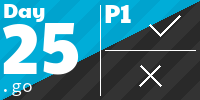
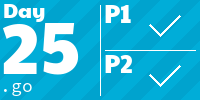
2024 Day 21 Part 2

diff --git a/2024/day21/main.go b/2024/day21/main.go
@@ -13,9 +13,8 @@ var dirs = []string{" ^A", "<v>"}
 var numpad = make(map[string]utils.Pair)
 var dirpad = make(map[string]utils.Pair)
 
-func complexity(code string, sequence string) int {
-	fmt.Println(code, len(sequence), utils.MustParseInt(code[:len(code)-1]), sequence)
-	return len(sequence) * utils.MustParseInt(code[:len(code)-1])
+func complexity(code string, length int) int {
+	return length * utils.MustParseInt(code[:len(code)-1])
 }
 
 type unit struct {
@@ -91,48 +90,53 @@ func getPermutations(delta utils.Pair) []string {
 	}
 }
 
-func getShortest(strs []string) string {
-	shortest := strs[0]
-	for _, s := range strs {
-		if len(s) < len(shortest) {
-			shortest = s
-		}
-	}
-	return shortest
+type key struct {
+	padlen int
+	start  string
+	end    string
+	n      int
 }
 
-func decompileSegment(pad map[string]utils.Pair, start, end string, n int) string {
+var cache = make(map[key]int)
+
+func decompileSegment(pad map[string]utils.Pair, start, end string, n int) int {
+	k := key{len(pad), start, end, n}
+	if value, exists := cache[k]; exists {
+		return value
+	}
+
 	delta := pad[end].Minus(pad[start])
 	perms := getPermutations(delta)
 
-	candidates := []string{}
+	result := -1
 	for _, perm := range perms {
 		if isIllegal(start, pad, perm) {
 			continue
 		}
+		length := 0
 		if n == 0 {
-			candidates = append(candidates, perm)
+			length = len(perm)
 		} else {
-			candidates = append(candidates, decompileSequence(dirpad, perm, n-1))
+			length = decompileSequence(dirpad, perm, n-1)
+		}
+		if result == -1 || length < result {
+			result = length
 		}
 	}
-	if len(candidates) == 1 {
-		return candidates[0]
-	} else {
-		return getShortest(candidates)
-	}
+	cache[k] = result
+	return result
 }
 
-func decompileSequence(pad map[string]utils.Pair, code string, n int) string {
-	result := []string{}
+func decompileSequence(pad map[string]utils.Pair, code string, n int) int {
+	result := 0
 	code = "A" + code
 	for i := 0; i < len(code)-1; i++ {
 		curr := string(code[i])
 		next := string(code[i+1])
-		seq := decompileSegment(pad, curr, next, n)
-		result = append(result, seq)
+		length := decompileSegment(pad, curr, next, n)
+		result += length
 	}
-	return strings.Join(result, "")
+	return result
 }
 
 func main() {
@@ -149,9 +153,11 @@ func main() {
 	}
 
 	part1 := 0
+	part2 := 0
 	for _, code := range lines {
-		seq := decompileSequence(numpad, code, 2)
-		part1 += complexity(code, seq)
+		part1 += complexity(code, decompileSequence(numpad, code, 2))
+		part2 += complexity(code, decompileSequence(numpad, code, 25))
 	}
 	fmt.Println("Part 1:", part1)
+	fmt.Println("Part 2:", part2)
 }

diff --git a/README.md b/README.md
@@ -1,9 +1,9 @@
 <!-- AOC TILES BEGIN -->
 <h1 align="center">
-  Advent of Code - 326/500 ⭐
+  Advent of Code - 328/500 ⭐
 </h1>
 <h1 align="center">
-  2024 - 48 ⭐ - Go
+  2024 - 50 ⭐ - Go
 </h1>
 <a href="2024/day01/main.go">
   <img src=".aoc_tiles/tiles/2024/01.png" width="161px">
